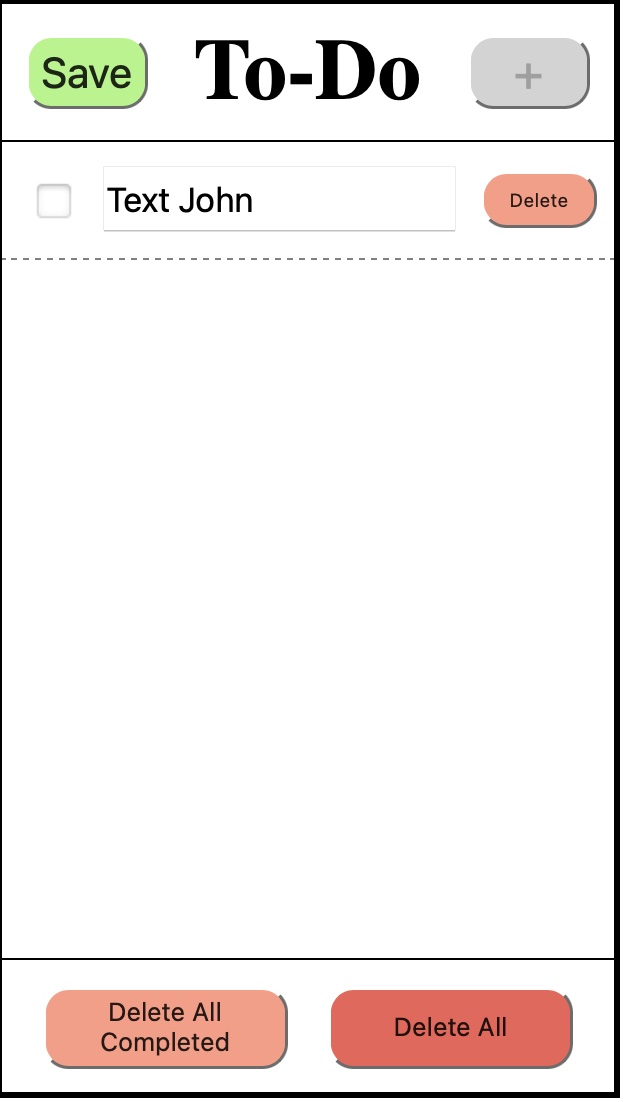
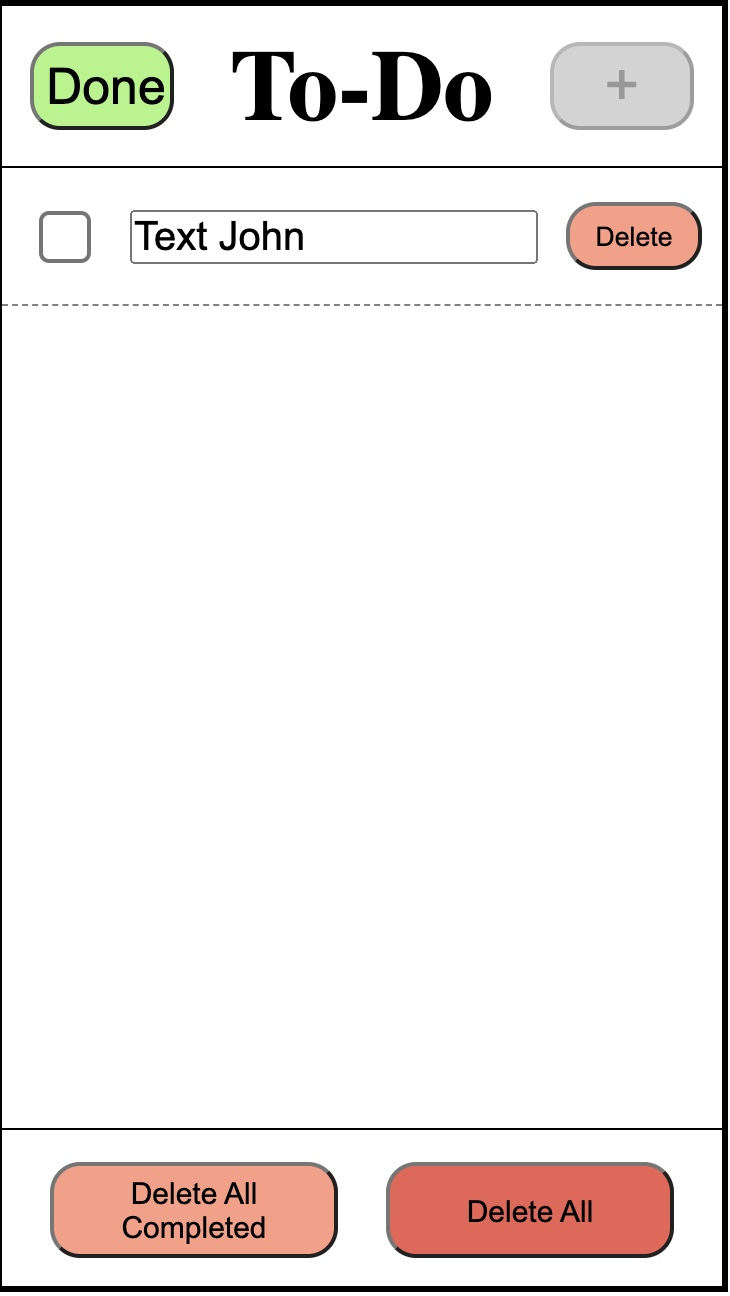
updates to images and design file

diff --git a/DeleteCompleted/2.) edititems.html b/DeleteCompleted/2.) edititems.html
@@ -7,7 +7,7 @@
 </head>
 <body>
     <div id="header">
-        <button id="saveEdits">Save</button>
+        <button id="saveEdits">Done</button>
         <h1 id = "title">To-Do</h1>
         <button id="addItem" disabled>+</button>
     </div>

diff --git a/DeleteCompleted/3.) edititemswithcompleteddeleted.html b/DeleteCompleted/3.) edititemswithcompleteddeleted.html
@@ -7,7 +7,7 @@
 </head>
 <body>
     <div id="header">
-        <button id="saveEdits">Save</button>
+        <button id="saveEdits">Done</button>
         <h1 id = "title">To-Do</h1>
         <button id="addItem" disabled>+</button>
     </div>

diff --git a/RenameItem/2.) edititems.html b/RenameItem/2.) edititems.html
@@ -7,7 +7,7 @@
 </head>
 <body>
     <div id="header">
-        <button id="saveEdits">Save</button>
+        <button id="saveEdits">Done</button>
         <h1 id = "title">To-Do</h1>
         <button id="addItem" disabled>+</button>
     </div>

diff --git a/RenameItem/3.) edititemsrenamed.html b/RenameItem/3.) edititemsrenamed.html
@@ -7,7 +7,7 @@
 </head>
 <body>
     <div id="header">
-        <button id="saveEdits">Save</button>
+        <button id="saveEdits">Done</button>
         <h1 id = "title">To-Do</h1>
         <button id="addItem" disabled>+</button>
     </div>

diff --git a/stylesheet.css b/stylesheet.css
@@ -80,9 +80,9 @@ input.checkbox {
 
 /* Text input area for renaming item */
 .editInput {
-    width: 60%;
+    width: 90%;
     height: 70%;
-    margin: 0;
+    margin: 0 0 0 10px;
     padding: 0;
     font-size: 100%;
 }

diff --git a/design.md b/design.md
@@ -1,6 +1,7 @@
 ## Design Overview
 
 We began our project with sketches of our to-do list application on paper. This draft included only two buttons: one to add an item, and one to remove an item. We also toyed with the idea of adding an edit button. We wanted to start as simple as possible, run some user testing, and update our to-do list layout accordingly.
+
 ![First Draft](./images/mockups/FirstDraft.jpg)
 
 After making the initial paper draft, we then made mockups on Balsamiq to use for our user tests. We handed the Balsamiq slides to our test users (roommates), told them what the required tasks our UI should support, and observed how they navigated the different screens.
@@ -21,14 +22,18 @@ We then used the notes app to make some UI mockups of our HTML files. Looking sp
 ![First Draft](./images/mockups/EditFlowInitial.jpg)
 
 
-We ended up deciding against this design, since we found this layout to be cumbersome for users who wanted to edit multiple tasks. While it did allow for more security (users could not accidentally delete multiple tasks) we found out via more roommate user testing that the inability to edit multiple tasks at once without more key-presses was a bigger concern than that of accidental task deletes. 
+We ended up deciding against this design, since we found this layout to be cumbersome for users who wanted to edit multiple tasks at once. While it did allow for more security (users could not accidentally delete multiple tasks) we found out via more roommate user testing that the inability to edit multiple tasks at once without more key-presses was a bigger concern than that of accidental task deletes. 
 
 The new design also allowed the UI to be more simple, since one edit button would cover the function of editing all tasks. Here is the wireframe for the design we ultimately went with, except that we moved the tab switcher to the bottom since it was hard to click at the top:
 
 ![Second Draft](./images/mockups/EditFlowFinal.jpg)
 
+Finally, after submitting our first pull request, we received some feedback from Professor Rhodes that the "save" button may not have been the most clear for users. By changing this button to say "done" we attempted to mitigate confusion about how to return to the home screen and exit the editing mode.
+
 ### Challenges we faced:
 One of the most difficult parts of this project for us was finding the best UI for the to-do list. There were many options that seemed to function just fine, but weighing the pros and cons of different UI's was one challenging component. 
+
+We also found that small changes to the CSS could potentially affect many components of our to-do list if we weren't careful, so we made sure to be purposeful about the labeling of our id's and classes.
 
 ### What we're most proud of:
 One of the things we're most proud of is the ability for users to add tasks, delete tasks, view all uncompleted tasks, and view all tasks (uncompleted or not) all within 3 key presses. 
@@ -101,7 +106,7 @@ User sees "Text John" task has become a text box that is editable, and clicks on
 
 Screen after renaming:
 
-User has changed "Text John" to "Text John about bank statements", and clicks save to move to next screen.
+User has changed "Text John" to "Text John about bank statements", and clicks done to move to next screen.
 
 ![Screenshot](./images/screenshots/screen11.jpg)
 
@@ -139,7 +144,7 @@ User presses on "delete all completed" button to move to next screen.
 
 Screen during task:
 
-Completed tasks have been deleted, user presses "save" button to move to the next screen.
+Completed tasks have been deleted, user presses "done" button to move to the next screen.
 
 ![Screenshot](./images/screenshots/screen17.jpg)
 
